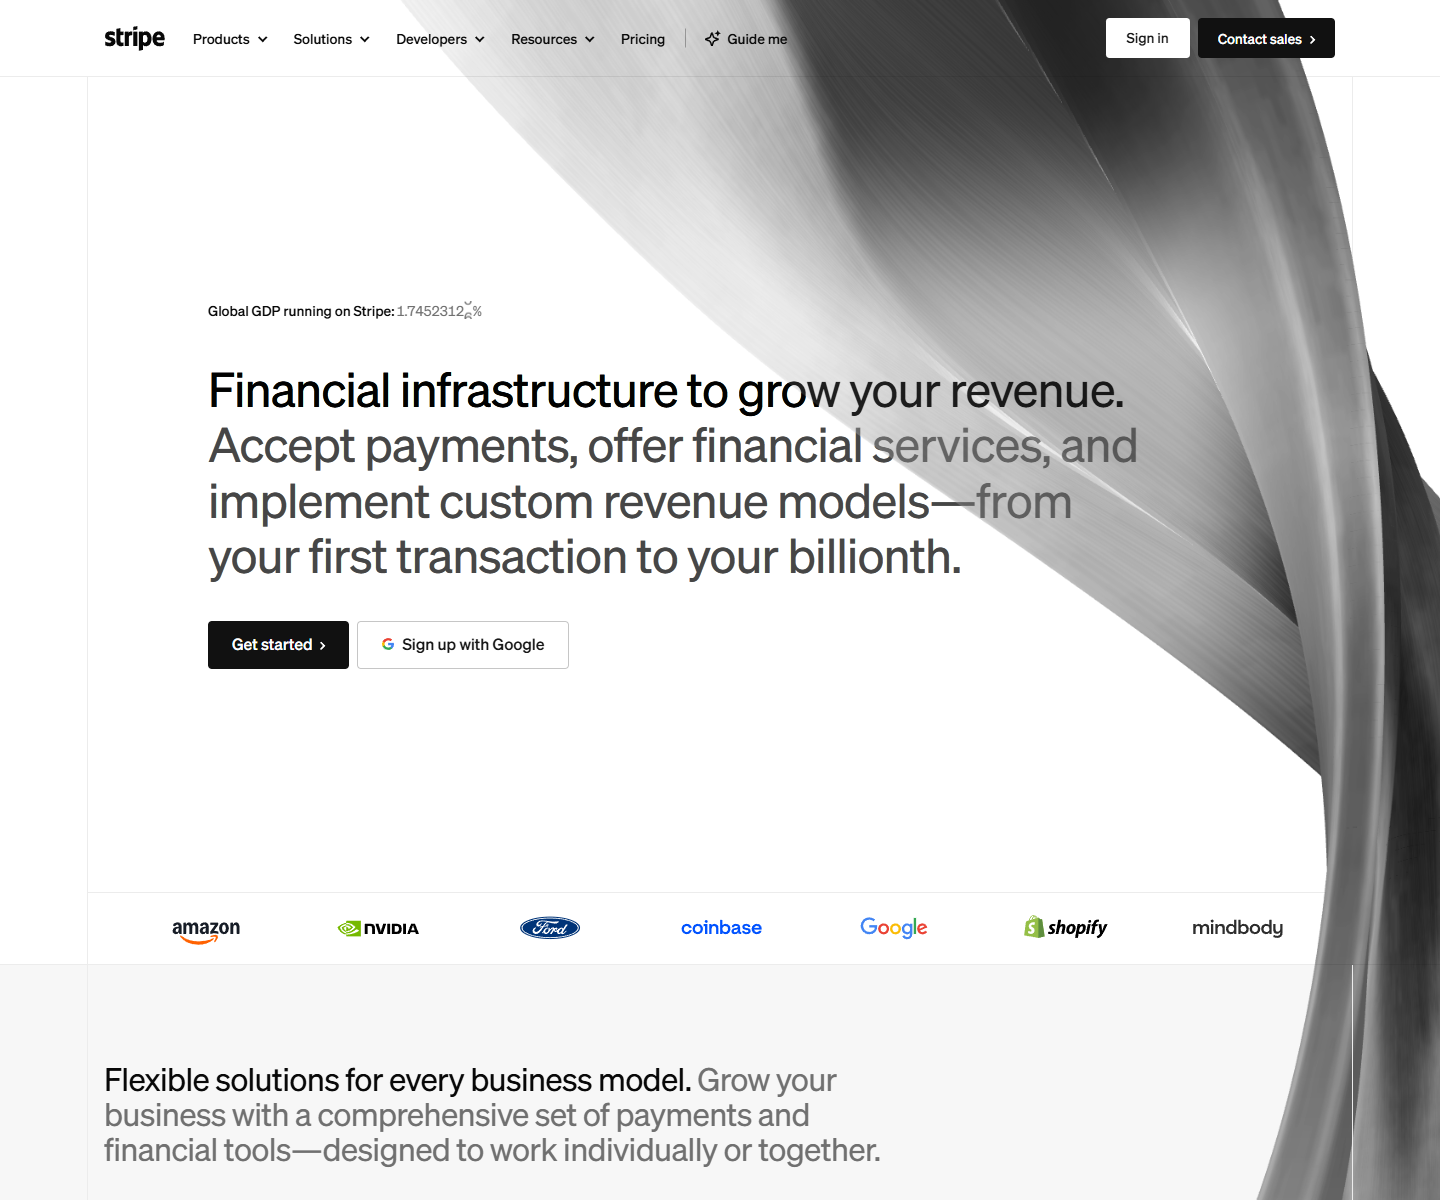
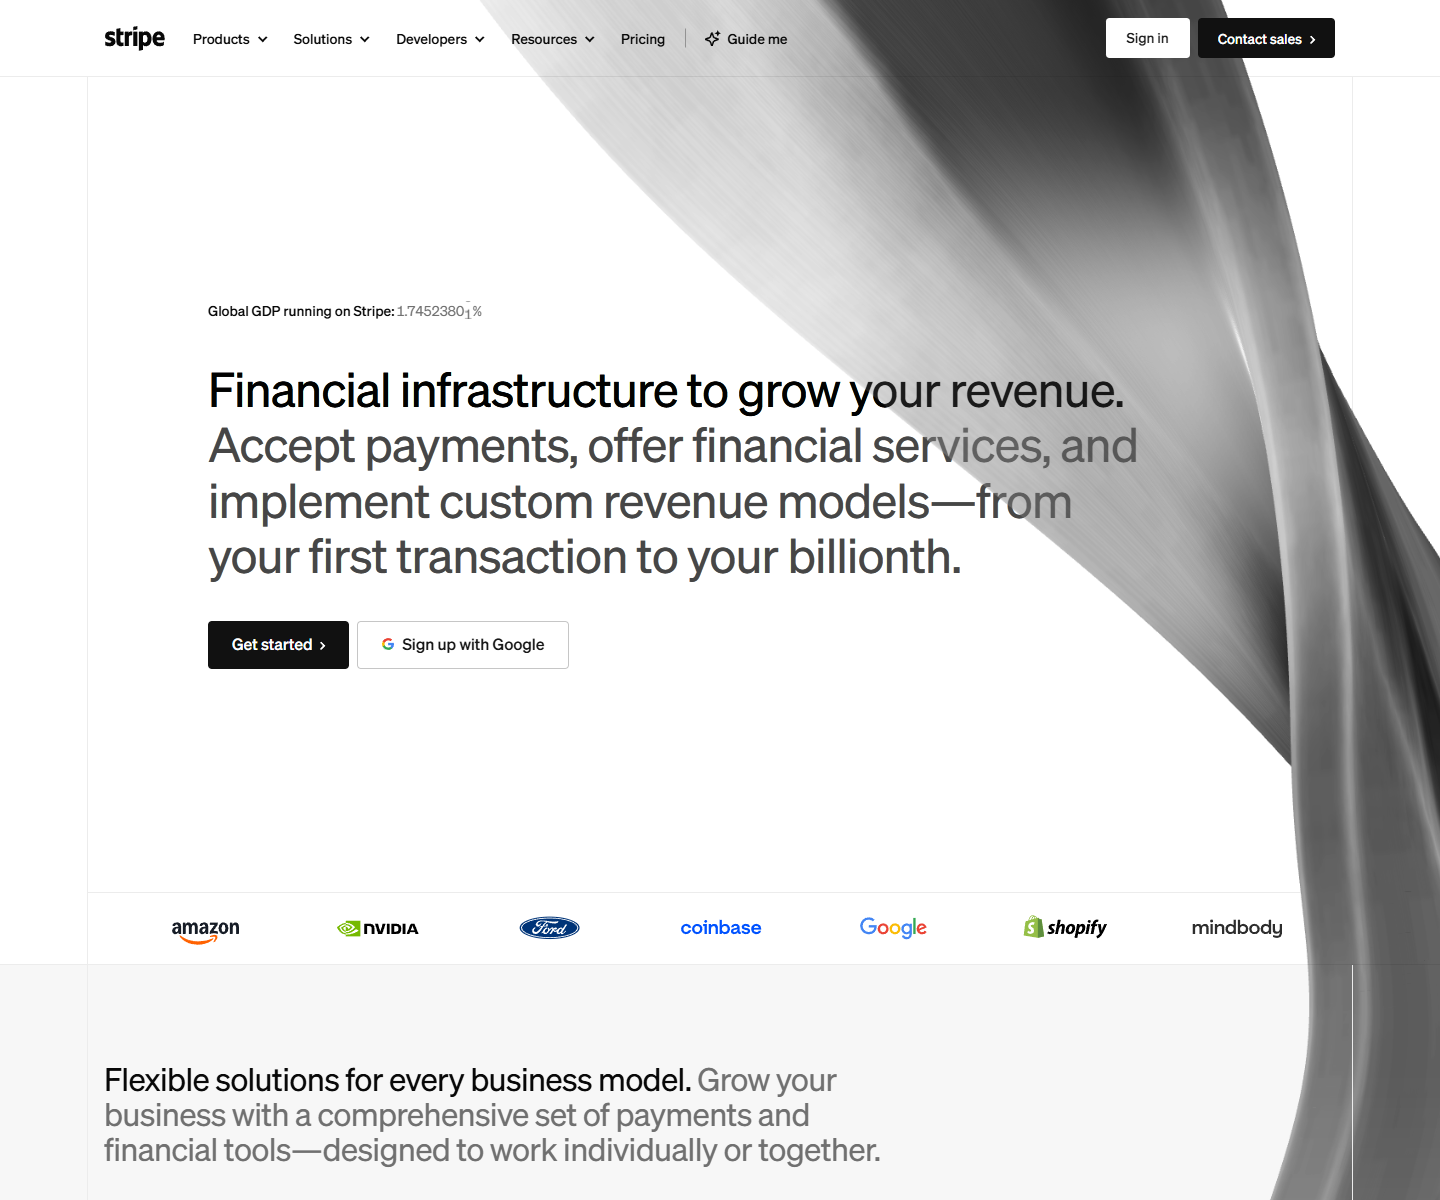
updated

diff --git a/src/components/stripe/Hero/wave/shaders.ts b/src/components/stripe/Hero/wave/shaders.ts
@@ -92,6 +92,7 @@ uniform float u_displaceAmount;
 #ifdef HERO_SOFT_CURVE
 uniform float u_tailStart;
 uniform float u_tailLength;
+uniform float u_tailBend;
 #endif
 
 varying float v_time;
@@ -302,10 +303,9 @@ float heroSmootherStep(float x) {
   return x * x * x * (x * (x * 6.0 - 15.0) + 10.0);
 }
 
-float heroTwistProfile(float lengthPosition, float power) {
+float heroTwistProfile(float lengthPosition) {
   // Spread the turn over the full sheet. Value, tangent and curvature ease together at its ends.
-  float relaxed = 1.0 - heroSmootherStep(lengthPosition);
-  return mix(expStep(lengthPosition, power), relaxed, 0.88);
+  return 1.0 - heroSmootherStep(lengthPosition);
 }
 #endif
 
@@ -319,8 +319,8 @@ void main(void) {
   float phase = u_time * u_speed * 0.72;
   float freeEnd = heroSmootherStep((v_uv.y - 0.18) / 0.82);
   float breathingTwist = sin(phase * 0.75 - v_uv.y * 3.2) * 0.032 * freeEnd;
-  mat4 rotationB = rotationMatrix(vec3(0.0, 0.5, 0.5), u_twistFrequencyX * 0.88 * heroTwistProfile(v_uv.y, u_twistPowerX) + breathingTwist);
-  mat4 rotationC = rotationMatrix(vec3(0.5, 0.0, 0.5), u_twistFrequencyZ * 0.88 * heroTwistProfile(v_uv.y, u_twistPowerZ) - breathingTwist * 0.4);
+  mat4 rotationB = rotationMatrix(vec3(0.0, 0.5, 0.5), u_twistFrequencyX * 0.88 * heroTwistProfile(v_uv.y) + breathingTwist);
+  mat4 rotationC = rotationMatrix(vec3(0.5, 0.0, 0.5), u_twistFrequencyZ * 0.88 * heroTwistProfile(v_uv.y) - breathingTwist * 0.4);
   vec3 displacedPosition = displace(uv, position.xyz, phase, u_displaceFrequencyX * 0.65, u_displaceFrequencyZ * 0.72, u_displaceAmount * 0.55);
   // One long traveling wave moves the lower sheet coherently instead of rippling each fold sharply.
   displacedPosition.y += sin(v_uv.y * 4.2 - phase * 0.8) * 2.0 * freeEnd;
@@ -344,7 +344,7 @@ void main(void) {
   float wind = phase * 2.6;
   // A shared, gently traveling S-curve bends the whole cross-section coherently. Its first
   // two derivatives start at zero, so the hanging end never hinges away from the upper body.
-  worldPosition.x -= (sin(tailArc * 4.0 - wind) - sin(-wind)) * 44.0 * tailBlend;
+  worldPosition.x -= (sin(tailArc * 4.0 - wind) - sin(-wind)) * u_tailBend * tailBlend;
   v_clipPosition = projectionMatrix * viewMatrix * worldPosition;
   #else
   v_clipPosition = projectionMatrix * modelViewMatrix * vec4(v_position, 1.0);

diff --git a/src/components/stripe/Hero/wave/WaveRenderer.ts b/src/components/stripe/Hero/wave/WaveRenderer.ts
@@ -262,8 +262,9 @@ export class WaveRenderer {
         u_displaceFrequencyX: { value: 2.25 },
         u_displaceFrequencyZ: { value: 2.25 },
         u_displaceAmount: { value: 0 },
-        u_tailStart: { value: (this.canvasSize.y - this.tail) * 0.35 },
+        u_tailStart: { value: (this.canvasSize.y - this.tail) * 0.2 },
         u_tailLength: { value: Math.max(this.tail, 1) },
+        u_tailBend: { value: Math.min(52, this.canvasSize.x * 0.052) },
         u_twistFrequencyY: { value: 0 },
         u_twistFrequencyX: { value: 0 },
         u_twistFrequencyZ: { value: 0 },
@@ -396,8 +397,9 @@ export class WaveRenderer {
     this.sceneTarget?.setSize(res.x, res.y);
     if (this.material) {
       this.material.uniforms.u_resolution.value = this.referenceResolution();
-      this.material.uniforms.u_tailStart.value = (this.canvasSize.y - this.tail) * 0.35;
+      this.material.uniforms.u_tailStart.value = (this.canvasSize.y - this.tail) * 0.2;
       this.material.uniforms.u_tailLength.value = Math.max(this.tail, 1);
+      this.material.uniforms.u_tailBend.value = Math.min(52, this.canvasSize.x * 0.052);
     }
     this.sizeCamera();
     this.updateMonoLit();

diff --git a/docs/research/hero-wave-upgrade.md b/docs/research/hero-wave-upgrade.md
@@ -11,9 +11,8 @@ below the logo strip.
 | Mobile, <=639px | 240px | 460px |
 
 The fade stays opaque farther into the extension before easing to transparent. The fold has 32
-columns instead of approximately 10, redistributing the existing 128-column mesh rather than adding
-vertices. Its two sides are separated farther to remove self-intersection marks exposed by the
-longer, sharper tail.
+columns instead of approximately 10, redistributing the 128 crosswise columns. Its two sides are
+separated farther to reduce self-intersection marks exposed by the longer, sharper tail.
 
 Desktop render targets use 4x MSAA. Touch devices retain native canvas antialiasing. A one-fetch
 composite with subtle stationary dither replaces the seven texture lookups of the angular blur/grain
@@ -44,3 +43,21 @@ RTX 4070 SUPER. This is the measured test machine, not a performance guarantee f
 The earlier raw capture uses the original half-refresh scheduler and should not be interpreted as
 a directly comparable fixed-60Hz benchmark. `npm run check` passes (full lint, TypeScript, production
 build), with the repository's four existing lint warnings and no new lint errors.
+
+## Softer tail curvature follow-up
+
+The hero now uses a quintic twist profile over its full length instead of the concentrated
+exponential turn. The fold's cross-section also eases its depth with a quintic curve, meeting the
+flat wings with zero curvature, and its width changes gradually along a broad sine envelope instead
+of pinching sharply in the middle. Longitudinal subdivisions increase from 256 to 384 to smooth the
+silhouette through the longer bend.
+
+Low-amplitude torsion and a long traveling wave replace short, stiff ripples. A coherent S-bend
+moves the hanging end as one sheet; its envelope starts with zero first and second derivatives so
+the transition into the upper body has no hinge. The hero-only shader define keeps the original
+developers and card-background deformation separate.
+
+Before/after rendered poses at matching timestamps, plus a mobile capture, are in
+[`docs/design-references/hero-wave-curve/`](../design-references/hero-wave-curve/). The visual review
+covers the initial pose and 12/30/60 seconds of simulated animation time. The same production
+regression checks cover rendering performance, pause/resume, history, and fallback behavior.
